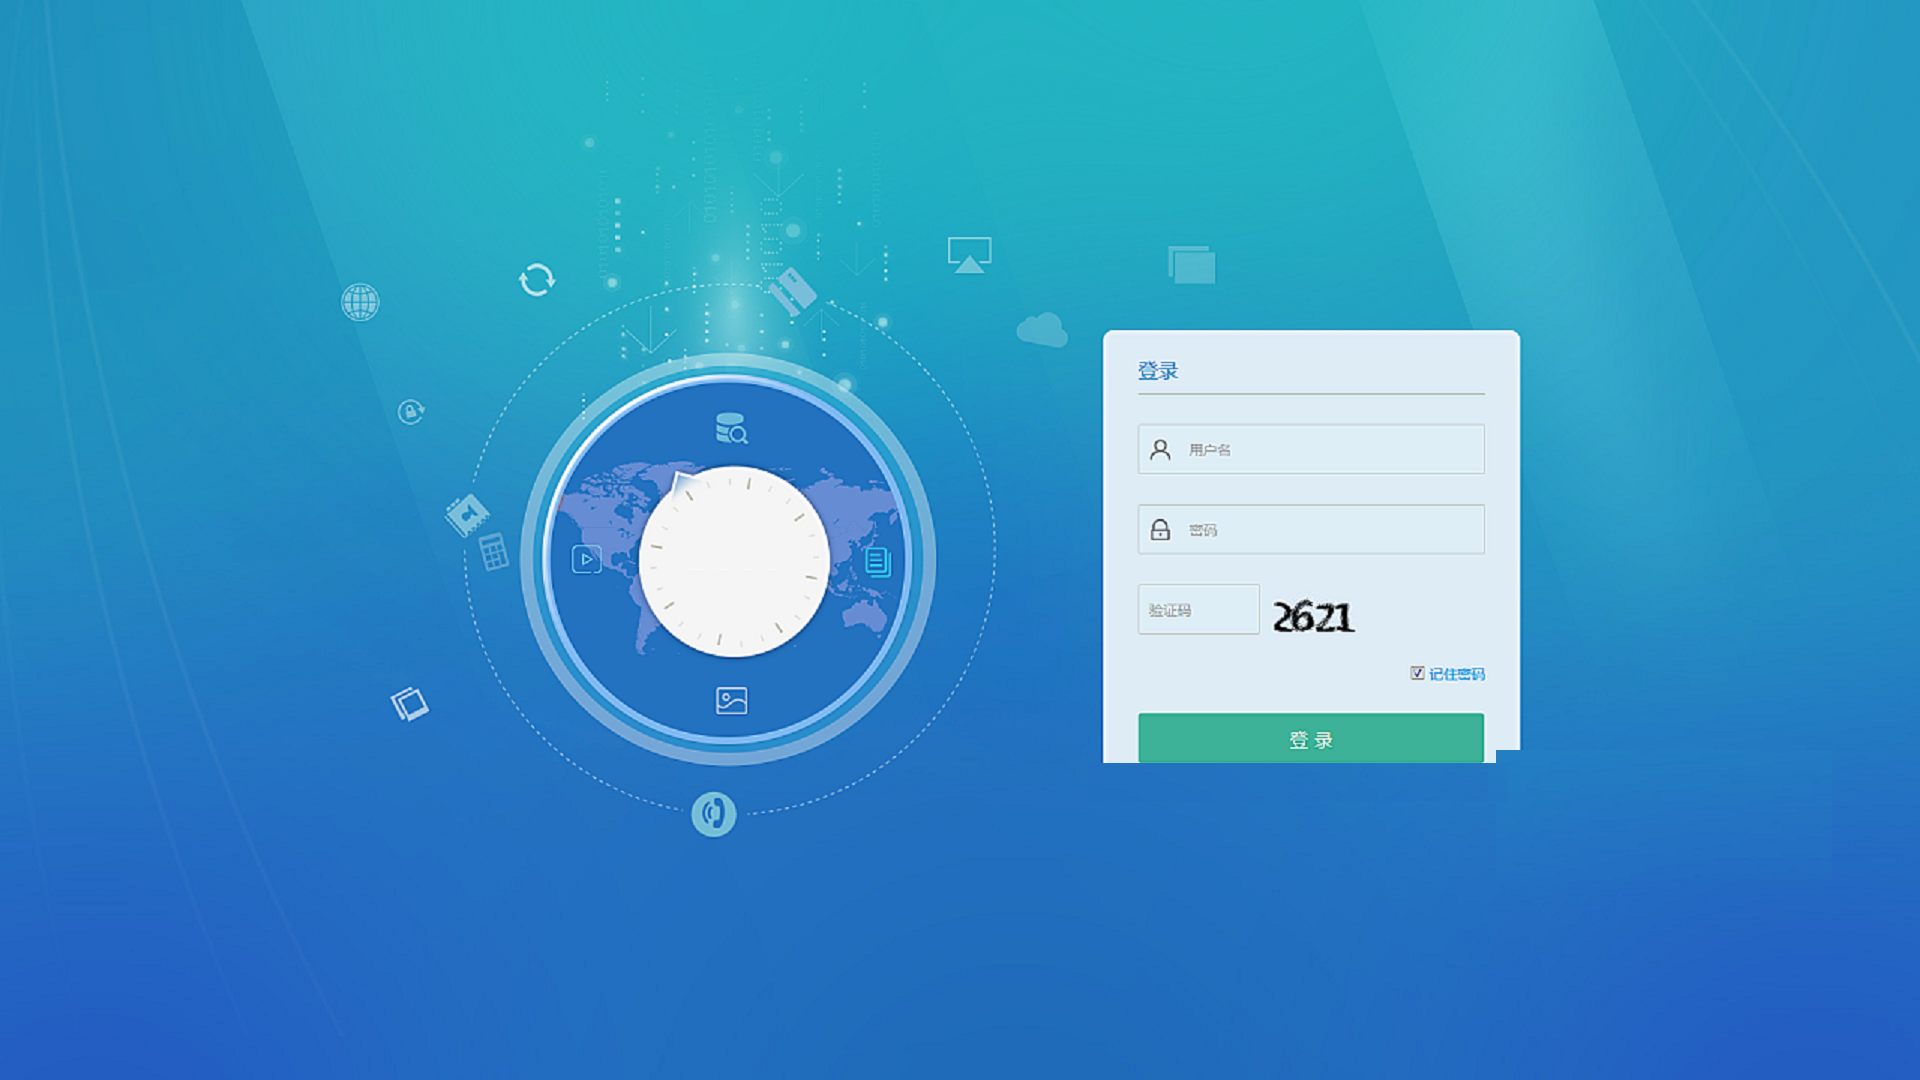
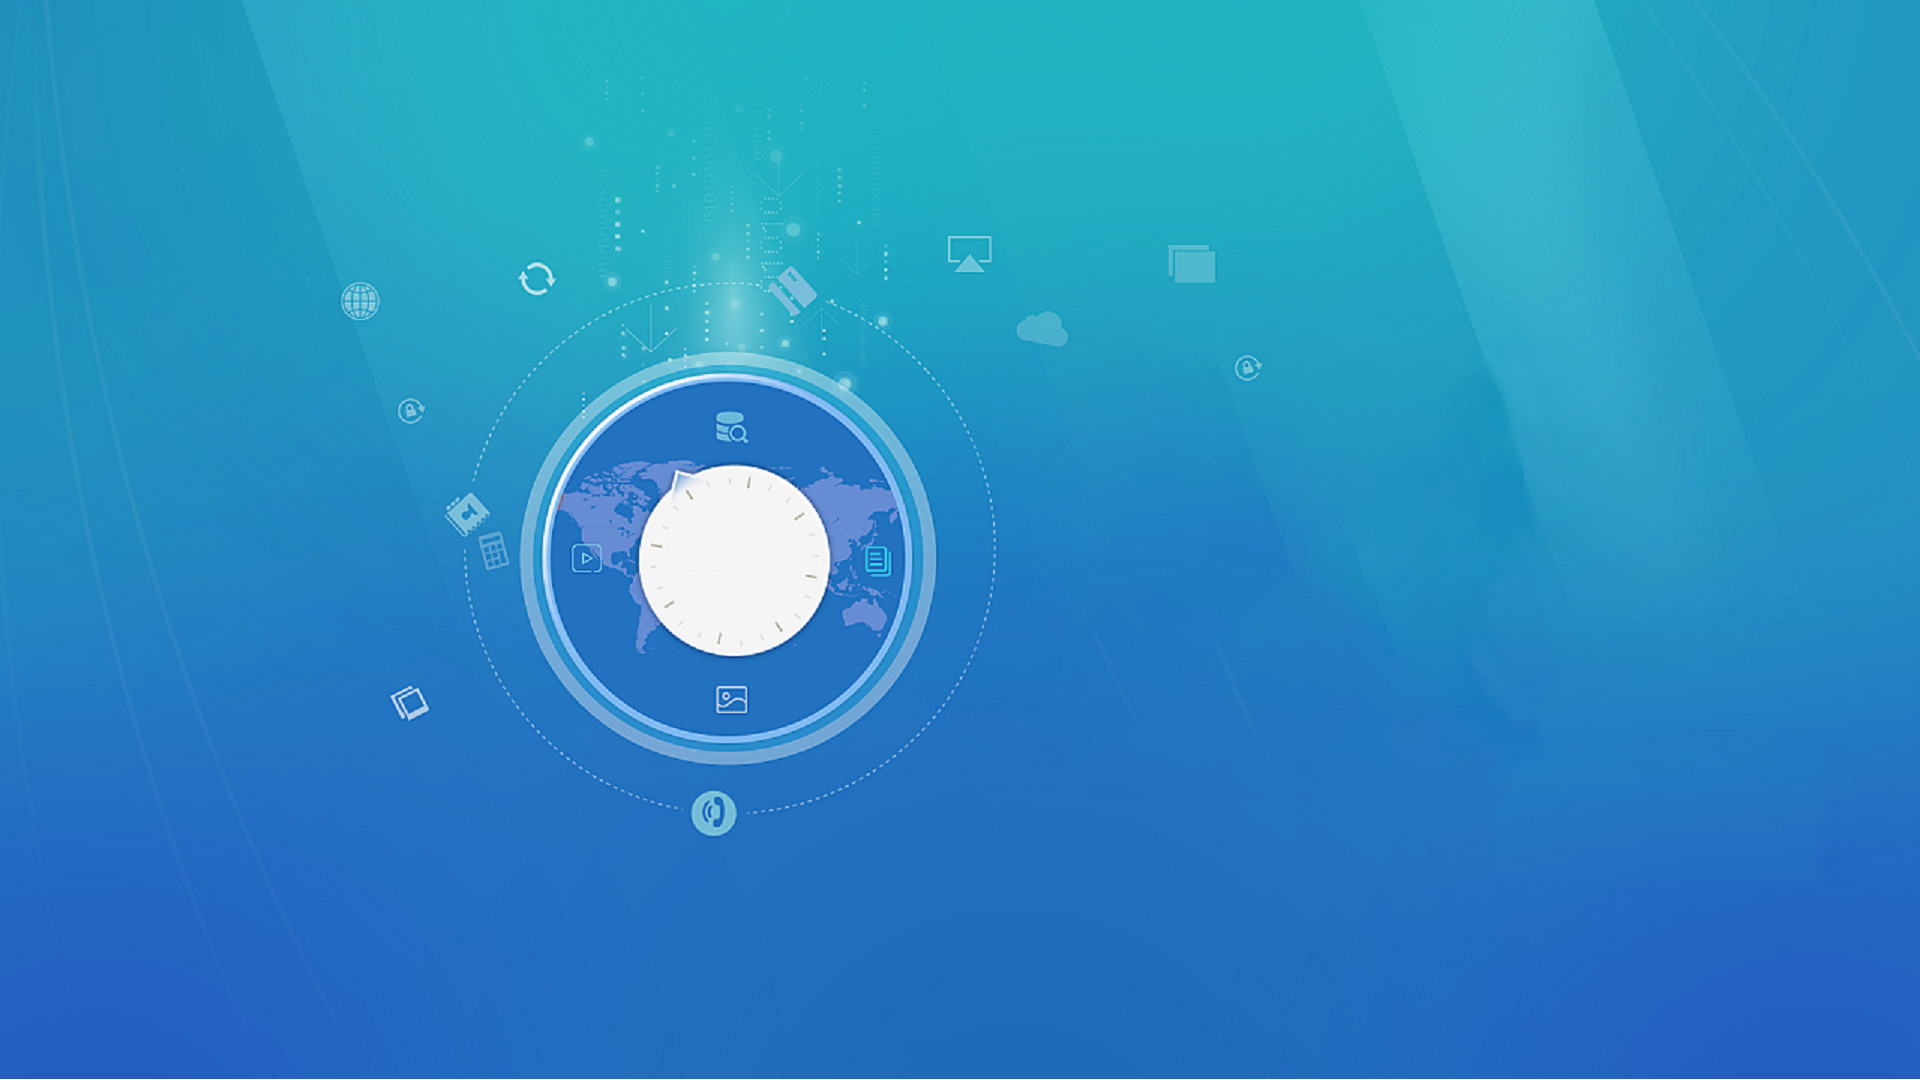
yy

diff --git a/rsda/src/main/resources/templates/webview/system/function/functionList.html b/rsda/src/main/resources/templates/webview/system/function/functionList.html
@@ -4,7 +4,7 @@
  * @Author: ZHANGQI
  * @Date: 2019-12-17 19:08:33
  * @LastEditors  : zgr
- * @LastEditTime : 2020-01-10 09:14:46
+ * @LastEditTime : 2020-01-10 17:35:08
  -->
 <!DOCTYPE html>
 <html lang="zh" xmlns:th="http://www.thymeleaf.org">
@@ -124,7 +124,12 @@
     </div>
   </div>
 
+  <div class="layui-form">
+    <input type="text" id="seleceIds" lay-filter="seleceIds" lay-submit  class="layui-hide">
+  </div>
   <input type="hidden" id="deptId">
+ 
+
   <script src="/layuiadmin/layui/layui.js" type="text/javascript" th:inline="none"></script>
   <script>
     layui.config({
@@ -138,20 +143,27 @@
         util = layui.util,
         treeTable = layui.treeTable;
 
-      console.log(table);
-
       // 渲染表格
       var renderTreeTable = function () {
-        treeTable.render({
-          elem: '#functionTable',
-          treeDefaultClose: true,
-          tree: {
-            iconIndex: 2,
-            arrowType: 'arrow2',
-          },
-          cellMinWidth: 80, //全局定义常规单元格的最小宽度，layui 2.2.1 新增  列宽自动分配
-          id: "functionTable",
-          cols: [{
+        var cols ;
+        if([[${fStatus}]] == false){
+          idsSelect=[];
+          // 隐藏表头
+          cols =  [
+             {type:'numbers',width:"30"}
+            , {type: 'checkbox',width:"40",align:"center"}
+            ,{
+              field: 'functionName',
+              title: '菜单名称',
+              align:"left",
+              templet: function (d) {
+                return '<i class="' + d.icon + '"></i> <span class="nav-label">' + d.functionName +
+                  '</span>';
+              }
+            } 
+          ]
+        }else if([[${fStatus}]] == true){
+           cols =  [{
               type: "checkbox",
               align: 'center',
               LAY_CHECKED: false,
@@ -214,7 +226,6 @@
                 return util.toDateString(d.createTime);
               },
             },
-            // {templet: '#demoTreeTableState1', title: '状态',align: 'center'},
             {
               align: 'center',
               toolbar: '#demoTreeTableBar1',
@@ -222,7 +233,22 @@
               width: 280
             }
 
-          ],
+          ]
+
+        }
+
+
+
+        treeTable.render({
+          elem: '#functionTable',
+          treeDefaultClose: true,
+          tree: {
+            iconIndex: 2,
+            arrowType: 'arrow2',
+          },
+          cellMinWidth: 80, //全局定义常规单元格的最小宽度，layui 2.2.1 新增  列宽自动分配
+          id: "functionTable",
+          cols:cols,
           reqData: function (data, callback) {
             setTimeout(function () { // 故意延迟一下
               // // var url = '/webviews/list.json';
@@ -423,7 +449,7 @@
         },
         batchdel: function () {
           console.log(treeTable);
-          //两种方式
+          // 选中的数据
           var checkStatus = treeTable.checkStatus('functionTable'),
             checkData = checkStatus.data; //得到选中的数据
           if (checkData.length === 0) {
@@ -459,7 +485,24 @@
           });
         }
       }
-
+      
+      var idsSelect = [];
+      treeTable.on('checkbox(functionTable)', function (obj) {
+          if(obj.checked == true){
+            if (obj.data!=null) {
+              idsSelect.push(obj.data.id);
+            }
+            
+          }else{
+            // 如果为false的话判断当前的行是够在之前已经选中过，选中过的话就拿出去
+             $.each(idsSelect,function(k,v){
+                 if(v== obj.data.id){
+                    idsSelect.pop(obj.data.id)
+                 }
+             })
+          }
+          $("#seleceIds").val(idsSelect);
+      })
       $('.layui-btn').on('click', function () {
         var type = $(this).data('type');
         active[type] ? active[type].call(this) : '';
@@ -467,6 +510,7 @@
 
 
     });
+
   </script>
 </body>
 

diff --git a/rsda/src/main/resources/templates/webview/system/role/roleList.html b/rsda/src/main/resources/templates/webview/system/role/roleList.html
@@ -91,7 +91,7 @@
           </div>
 
           <button class="layui-btn" lay-submit lay-filter="user-front-search"> 搜索</button>
-
+          
         </div>
       </div>
       <table id="userList" lay-filter="userList" class="layui-hide"> </table>
@@ -115,6 +115,7 @@
                   {{# } }}
 
       </script>
+      <!-- <input type="text" id="seleceIds" class="layui-hide"> -->
     </div>
   </div>
 
@@ -127,7 +128,7 @@
 
 
 
-
+    
     layui.config({
       base: '/layuiadmin/' //静态资源所在路径
     }).extend({
@@ -262,37 +263,28 @@
             }
           });
         } else if (obj.event === "impower") {
-
           // 授权用户对话框
           layer.open({
             type: 2,
-            title: '用户授权',
+            title: '',
             maxmin: true,
-            area: ['927px', '654px'],
+            area: ['450px', '504px'],
             btn: ['确定', '取消'],
             fixed: true,
             shadeClose: false,
             shade: 0.2,
             moveType: 1,  //拖拽模式，0或者1 
-            content: '/function/functionList?id=' + data.id + "&type=false",
+            content: '/function/functionList?id=' + data.id + "&fxz=false",
             yes: function (index, layero) {
               var iframeWindow = window['layui-layer-iframe' + index]
-                , submitID = 'roleSubmitTwo'
+                , submitID = 'seleceIds'
                 , submit = layero.find('iframe').contents().find('#' + submitID);
-              //监听提交
-              iframeWindow.layui.form.on('submit(' + submitID + ')', function (dataLog) {
-                var field = dataLog.field;
-                if (field.roleStatus == "true") {
-                  field.roleStatus = true;
-                } else {
-                  field.roleStatus = false;
-                }
-                //获取提交的字段
-                //提交 Ajax 成功后，静态更新表格中的数据
+                var ids = [layero.find('iframe').contents().find('#seleceIds').val()];
+                console.log(ids);
+                //提交授权的数据的对应id;
                 $.ajax({
-                  type: "post",
-                  url: "/role/updateRole",
-                  data: JSON.stringify(field),
+                  type: "get",
+                  url: "/role/roleSelFunction?id="+data.id+"&ids="+ids,
                   dataType: "json",
                   contentType: "application/json;charset-UTF-8",
                   success: function (resultJSONObject) {
@@ -303,8 +295,7 @@
                   }
                 });
                 layer.close(index); //关闭弹层
-              });
-              submit.trigger('click');
+                submit.trigger('click');
             }
           });
         } else if (obj.event === "assignRoles") {
@@ -437,7 +428,7 @@
         , add: function () {
           layer.open({
             type: 2
-            , title: '添加用户'
+            , title: '添加角色'
             , content: '/role/roleUpdateInfo'
             , maxmin: true
             , area: ['700px', '550px']

diff --git a/rsda/src/main/resources/templates/login.html b/rsda/src/main/resources/templates/login.html
@@ -20,11 +20,9 @@
 	  .login{
 		background-repeat:no-repeat;
 		background-position:center;
-		background-size: 80%  90%;
-		border-radius: 10px;
-		border: 0.1px solid #fff;
+		background-size: cover;
+		/* border: 0.1px solid #fff; */
 		z-index: 10;
-		box-shadow: -7px 0px 100px 23px rgba(36, 102, 152);
 		background-image: url('/image/background/login_background.jpg');
 
 	  }
@@ -39,17 +37,17 @@
 		<div class="content">
 			<!-- BEGIN LOGIN FORM -->
 			<div class="layadmin-user-login layadmin-user-display-show" id="LAY-user-login" style="display: none;">
-				<!-- <div class="Toplog">
-							<h1>数字化干部人事档案系统</h1>
-						</div> -->
 				<div class="layadmin-user-login-main">
 					<div class="layadmin-user-login-box layadmin-user-login-body layui-form">
-						
+						<div class="layui-form-item">
+							<label style="font-size: 18px;color: #1e9fff;font-weight: bolder;font-family: 宋体;">登录</label>
+							<hr size="15px"/>
+						</div>
 						<div class="layui-form-item">
 							<label class="layadmin-user-login-icon layui-icon layui-icon-username"
 								for="LAY-user-login-username"></label> <input type="text" autocomplete="off"
 								name="userName" id="LAY-user-login-username" lay-verify="required" placeholder="用户名"
-								class="layui-input">
+								class="layui-input"> 
 						</div>
 						<div class="layui-form-item">
 							<label class="layadmin-user-login-icon layui-icon layui-icon-password"
@@ -57,6 +55,10 @@
 								id="LAY-user-login-password" lay-verify="required" autocomplete="off" placeholder="密码"
 								class="layui-input">
 						</div>
+						<div class="layui-layer-move">
+							
+						</div>
+
 						<div class="layui-form-item">
 							<button class="layui-btn layui-btn-fluid" lay-submit
 								lay-filter="LAY-user-login-submit">登陆</button>

diff --git a/rsda/src/main/resources/static/layuiadmin/style/login.css b/rsda/src/main/resources/static/layuiadmin/style/login.css
@@ -9,21 +9,19 @@ html,body{
 }
 
 .backgroudBg {
-
     position: relative;
-    left: 56%;
-    top: 32%;
-    width: 19%;
-    border: 1px solid red;
+    left: 57%;
+    top: 29%;
+    width: 16%;
     height: 38%;
     border-top: -8px solid;
     background-size: 989px 593px;
     background-repeat: no-repeat;
-    box-shadow: 15px 5px 15px 7px #217cc2;
+    /* box-shadow: 15px 5px 15px 7px #217cc2; */
     border-radius: 18px;
     border: 0.1px solid #fff;
     z-index: 9;
-    background-color: rgb(255, 255, 255);
+    background-color: rgb(255, 255, 255,0.8);
 }
 
 
@@ -69,6 +67,10 @@ h1 {
   font-size: 35px;
 }
 
+/* .layui-input{
+  width: 84%;
+} */
+
 .layui-layout-body {
   overflow: auto
 }
@@ -87,17 +89,19 @@ h1 {
   margin-top: 10%;
 
 }
-
+.layui-timeline-item:before, hr {
+  background-color: #cccccc;
+}
 .layadmin-user-login-main {
   position: relative;
-  width: 360px;
+  width: 300px;
   margin: 0 auto;
   box-sizing: border-box;
 
 }
 
 .layadmin-user-login-box {
-  padding: 20px
+  padding:0px 20px
 }
 
 .layadmin-user-login-header {
@@ -158,8 +162,21 @@ h1 {
 .layadmin-user-login-other .layui-icon {
   position: relative;
   top: 2px;
-  font-size: 26px
+  font-size: 26px;
 }
+.layadmin-user-login-icon {
+  /* position: absolute;
+  left: 1px;
+  top: 1px;
+  width: 38px;
+  line-height: 36px;
+  text-align: center;
+  color: #000; */
+  color: #3e3d3d;
+}
+
+
+
 
 .layadmin-user-login-other a:hover {
   opacity: .8
@@ -196,7 +213,7 @@ h1 {
 
 .layadmin-user-login-main[bgimg] {
   background-color: #fff;
-  box-shadow: 0 0 5px rgba(0,0,0,.05)
+  box-shadow: 0 0 5px rgba(0,0,0,.5)
 }
 
 .ladmin-user-login-theme {

diff --git a/rsda/src/main/resources/templates/webview/system/role/roleForm.html b/rsda/src/main/resources/templates/webview/system/role/roleForm.html
@@ -206,16 +206,7 @@
       form.on('switch(isCandel)', function (data) {
         $("#isCandel").val(this.checked);
       });
-
-
     })
-
-
-
-
-
-
-
   </script>
 
 </body>
